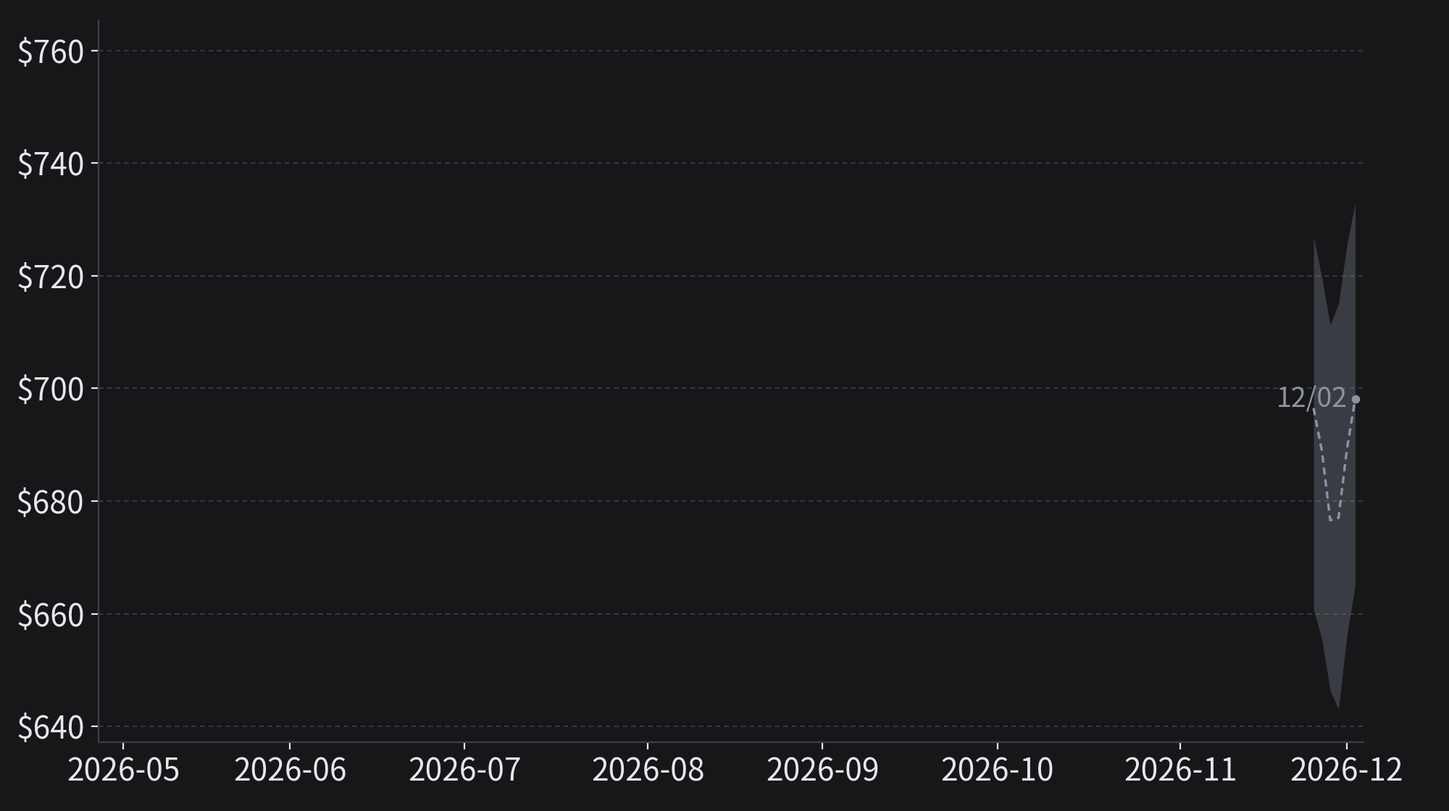
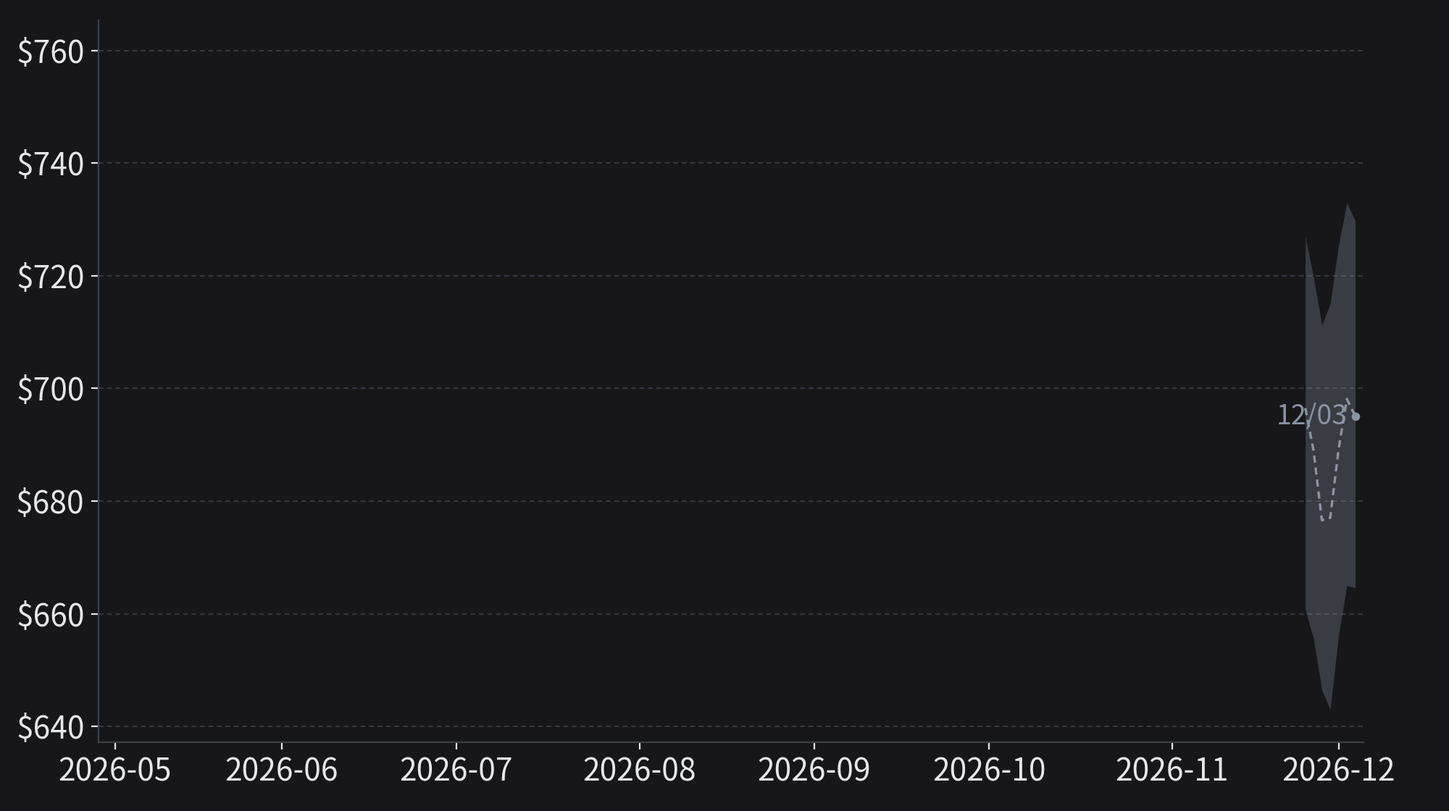
2026-10-30 nasdaq 리포트 공개본

diff --git a/r/20261030-nasdaq/report.html b/r/20261030-nasdaq/report.html
@@ -1,0 +1,158 @@
+<h2 id="1개월-지수-방향-예측">1개월 지수 방향 예측</h2>
+<p><img src="r/20261030-nasdaq/chart-nasdaq.png?v=f65d9cd6ec" /></p>
+<p><img src="r/20261030-nasdaq/predict-nasdaq.png?v=d363d694af" /></p>
+<h3 id="현재-상태-알파벳에-이어-아마존도-현금흐름이-나빠져-기술주가-다시-하락했다"><mark>현재 상태</mark> 알파벳에 이어 아마존도 현금흐름이 나빠져 기술주가 다시 하락했다</h3>
+<p>10월 29일 나스닥 종합지수는 1.4% 하락했다. 알파벳 주가가 하루 사이 12.6% 내려 상장 뒤 가장 크게 하락했기 때문이다. CNBC에 따르면 알파벳의 3분기 잉여현금흐름은 -90.7억 달러로 애널리스트 예상보다 크게 나빴다.</p>
+<p>장 마감 뒤에는 아마존 주가도 시간외 거래에서 6% 넘게 하락했다. 아마존의 클라우드 매출은 5년 만에 가장 빠르게 늘었지만, 최근 12개월 잉여현금흐름은 424억 달러 유출로 돌아섰다. AI 수요는 늘고 있다. 투자자는 AI 투자에서 현금을 언제 회수하는지 따지기 시작했다.</p>
+<p>10년물 국채 수익률이 내렸는데도 기술주는 하락했다. 투자자가 현금 회수를 걱정해 주식을 팔았기 때문이다. VIX는 평소 범위에 있어 지수 전체에 대한 공포는 크지 않다. 반면 투자자는 대형 기술주의 추가 하락에 대비해 풋옵션을 많이 사 두었다.</p>
+<h3 id="주요-분기와-예측-앞으로-한-달은-빅테크-매도의-지속-기간과-선거-뒤-이란-재공격-여부가-중요하다"><mark>주요 분기와 예측</mark> 앞으로 한 달은 빅테크 매도의 지속 기간과 선거 뒤 이란 재공격 여부가 중요하다</h3>
+<p>앞으로 한 달 동안 세 가지 이슈가 중요하다. 첫째, 투자자는 며칠 더 대형 기술주를 판 뒤 매도를 멈출 가능성이 높다. 둘째, 11월 3일 중간선거가 끝나면 미국과 이스라엘이 이란을 다시 공격할 가능성이 커진다. 셋째, AI 데이터센터를 짓는 기업에서 한 달 안에 신용 사건(신용등급이 투기등급으로 내려가거나 부도 위험에 대한 보험료가 급등하는 일)이 일어날 가능성은 낮다.</p>
+<h3 id="지수-영향-횡보-가능성이-가장-높고-하락-가능성이-두-번째로-높다"><mark>지수 영향</mark> 횡보 가능성이 가장 높고, 하락 가능성이 두 번째로 높다</h3>
+<p>앞으로 한 달 동안 지수가 횡보할 가능성이 가장 높고, 하락할 가능성이 두 번째로 높다. 하락 가능성을 키우는 사안은 두 가지다. 선거 뒤 미국이 이란 공격을 재개하면 하락 가능성이 커진다. AI 데이터센터를 짓는 기업에서 신용 사건이 일어나도 하락 가능성이 커진다. 반대로 미국이 공격을 미루면 횡보와 상승의 가능성이 커진다. 투자자가 빅테크 매도를 빨리 멈춰도 횡보와 상승의 가능성이 커진다.</p>
+<p>어제보다 큰 하락의 가능성은 줄었고, 상승과 횡보의 가능성은 커졌다. 어제 가장 큰 하락 요인으로 본 아마존 실적이 나왔고, 투자자가 시간외 거래에서 그 충격을 이미 주가에 반영했다.</p>
+<p>코어위브는 엔비디아 칩으로 AI 연산 능력을 빌려주는 기업이다. 코어위브의 부도 위험에 대한 보험료가 내렸다. 오라클도 앞으로 새로 빌릴 돈의 상한을 밝혔다. 그래서 AI 데이터센터를 짓는 기업에서 신용 사건이 일어날 가능성도 낮아졌다.</p>
+<h2 id="주요-이슈-해설">주요 이슈 해설</h2>
+<h3 id="1-미국의-선거-뒤-이란-재공격-양방향-중요도-높음">1. 미국의 선거 뒤 이란 재공격 <code>양방향</code> <code>중요도 높음</code></h3>
+<h4 id="현재-상태-미국은-선거-전-공격을-배제했지만-선거-뒤-작전을-준비한다는-보도가-이어진다"><mark>현재 상태</mark> 미국은 선거 전 공격을 배제했지만 선거 뒤 작전을 준비한다는 보도가 이어진다</h4>
+<p>백악관은 10월 27일 로이터에 11월 3일 중간선거 전에는 이란을 공격하지 않겠다고 밝혔다. 그러나 WSJ에 따르면 미국은 걸프 국가들에 선거 뒤 짧고 강한 군사작전에 대비하라고 알렸다. 로이터에 따르면 10월 29일 중동을 담당하는 미군 지휘관이 백악관에서 트럼프 대통령에게 이란에 쓸 군사 옵션을 설명했다.</p>
+<p>같은 날 밴스 부통령은 협상 재개를 시도했지만, 이란의 고위 관리는 카타르의 새 중재안을 받아들일 수 없다고 했다.</p>
+<p>예측시장의 투자자는 선거 뒤 공격 가능성을 이미 상당 부분 예상하고 거래한다. 브렌트유가 배럴당 110달러를 넘는 것도 선거 뒤 공격 위험 때문이다. 다만 유가가 높아도 5년 기대 인플레이션은 평상시 범위에 있다. 그래서 유가 때문에 금리 인상 기대가 커지지는 않았다.</p>
+<h4 id="주요-분기와-예측-선거-뒤-한-달-안에-공격이-재개될-가능성은-절반보다-낮다"><mark>주요 분기와 예측</mark> 선거 뒤 한 달 안에 공격이 재개될 가능성은 절반보다 낮다</h4>
+<p>선거 전에 공격이 재개될 가능성은 낮다. 선거 뒤 11월 말까지 공격이 재개될 가능성은 절반보다 낮지만, 예측시장의 예상보다는 조금 높다. 공격이 재개돼도 유가만 오르면 주가 하락은 며칠 안에 끝날 가능성이 높다. 하이일드 채권 스프레드는 신용등급이 낮은 회사채의 금리와 국채 금리의 차이다. 금리와 이 스프레드가 함께 오르면 하락 기간이 길어진다. 이란이 호르무즈 해협을 다시 열면 유가와 금리가 함께 내린다.</p>
+<h4 id="지수-영향-공격이-미뤄지면-지수가-조금씩-오르고-공격이-재개되면-지수가-하락한다"><mark>지수 영향</mark> 공격이 미뤄지면 지수가 조금씩 오르고, 공격이 재개되면 지수가 하락한다</h4>
+<p>공격 없이 날이 지나면 투자자는 위험에 대비한 매도를 줄인다. 그래서 지수가 조금씩 오른다. 공격이 재개되면 유가가 오른다. 투자자는 물가와 금리의 상승을 예상해 기술주를 판다.</p>
+<p>올해 3월 이란이 호르무즈 해협 봉쇄를 선언한 뒤 브렌트유는 100달러를 넘었다. QQQ는 3월 26일 하루 2.4% 하락했고, 3월 31일 종전 기대가 나오자 3.4% 올랐다.</p>
+<h3 id="2-빅테크-ai-투자의-현금-회수-양방향-중요도-높음">2. 빅테크 AI 투자의 현금 회수 <code>양방향</code> <code>중요도 높음</code></h3>
+<h4 id="현재-상태-ai-수요는-확인됐지만-투자자는-현금흐름이-나빠진-기업을-팔았다"><mark>현재 상태</mark> AI 수요는 확인됐지만 투자자는 현금흐름이 나빠진 기업을 팔았다</h4>
+<p>알파벳의 클라우드 매출은 103% 늘었고, 아마존의 클라우드(AWS) 매출은 39.3% 늘었다. 하지만 두 기업은 현금 회수가 늦어졌다. 알파벳의 3분기 잉여현금흐름은 적자였고, 아마존의 최근 12개월 잉여현금흐름은 424억 달러 유출로 돌아섰다. CNBC에 따르면 아마존의 3분기 자본지출은 773억 달러로 FactSet 추정 587억 달러보다 많았다.</p>
+<p>투자자는 현금 회수 능력을 보고 종목을 골라 매매했다. 10월 29일 알파벳 주가는 12.6% 하락했고 메타 주가는 1.96% 올랐다. 애널리스트가 나스닥100 상위 종목의 내년 주당순이익 추정치를 한 달 사이 5% 넘게 올렸는데도 주가는 따라 오르지 않았다.</p>
+<h4 id="주요-분기와-예측-투자자는-며칠-더-대형-기술주를-판-뒤-매도를-멈출-가능성이-높다"><mark>주요 분기와 예측</mark> 투자자는 며칠 더 대형 기술주를 판 뒤 매도를 멈출 가능성이 높다</h4>
+<p>투자자는 며칠 더 대형 기술주를 판 뒤 매도를 멈출 가능성이 높다. 투자자가 기술주를 파는 동안 하이일드 채권 스프레드까지 오르면 매도 기간이 길어진다. 11월 17일 엔비디아가 내년 수요를 숫자로 밝히면 현금 회수에 대한 불안이 줄어든다. 엔비디아가 고객사의 자금 사정을 걱정하면 매도 규모가 다시 커진다.</p>
+<h4 id="지수-영향-첫-주에는-지수가-더-하락하고-그-뒤에는-일부를-회복할-가능성이-높다"><mark>지수 영향</mark> 첫 주에는 지수가 더 하락하고, 그 뒤에는 일부를 회복할 가능성이 높다</h4>
+<p>나스닥100에서 알파벳과 아마존의 비중이 크다. 그래서 두 종목 주가가 내리면 지수도 바로 하락한다. 투자자가 매도를 멈추면 이익 추정치가 오른 종목을 다시 사들인다. 그러면 지수가 일부 회복한다.</p>
+<p>2022년 10월 말에는 실적 발표 뒤 이틀 사이 메타와 아마존 주가가 크게 하락했다. QQQ는 나흘째 가장 낮은 가격까지 내렸고, 열흘째에는 하락 전 가격보다 높아졌다.</p>
+<h3 id="3-ai-인프라-기업의-신용-위험-하락-요인-중요도-높음">3. AI 인프라 기업의 신용 위험 <code>하락 요인</code> <code>중요도 높음</code></h3>
+<h4 id="현재-상태-ai-인프라-기업의-부도-위험에-대한-보험료는-내렸지만-대형-플랫폼의-조달은-늘었다"><mark>현재 상태</mark> AI 인프라 기업의 부도 위험에 대한 보험료는 내렸지만 대형 플랫폼의 조달은 늘었다</h4>
+<p>CryptoBriefing에 따르면 코어위브의 부도 위험에 대한 보험료는 10월 27일 1주일 넘게 가장 낮은 수준으로 내렸다. 오라클은 10월 28일 투자자 행사에서 2030 회계연도까지 차환을 빼고 새로 조달할 자금을 200억 달러로 제한하겠다고 밝혔고, 오라클 주가는 약 11% 올랐다. 하이일드 채권 스프레드도 3월 고점보다 낮다.</p>
+<p>반면 대형 플랫폼 기업은 조달을 늘렸다. 메타는 10월 29일 의무전환 우선주(정해진 날 보통주로 바뀌는 우선주)와 보통주 선도 매도(가격을 지금 정하고 주식은 나중에 넘기는 매도)로 약 370억 달러 규모의 자기자본을 조달하는 계약을 맺었다. 마이크로소프트도 같은 날 회사채를 발행하는 절차를 시작했다.</p>
+<h4 id="주요-분기와-예측-한-달-안에-신용-사건이-일어나도-신용등급이-낮은-ai-기업에서-그칠-가능성이-높다"><mark>주요 분기와 예측</mark> 한 달 안에 신용 사건이 일어나도 신용등급이 낮은 AI 기업에서 그칠 가능성이 높다</h4>
+<p>11월 말까지 AI 인프라 기업에 신용 사건이 일어날 가능성은 낮다. 신용 사건이 일어나도 신용등급이 낮은 AI 기업에서 그칠 가능성이 높다. 코어위브는 11월 중순 실적을 발표한다. 코어위브가 그 실적에서 큰 규모의 추가 자금을 조달하겠다는 계획을 밝힐 수 있다. 그 뒤 하이일드 채권 스프레드가 3월 고점을 넘으면 회사채 시장 전체에서 부채에 대한 불안이 커진다.</p>
+<h4 id="지수-영향-회사채-시장-전체에서-하이일드-채권-스프레드가-오르면-지수가-크게-하락한다"><mark>지수 영향</mark> 회사채 시장 전체에서 하이일드 채권 스프레드가 오르면 지수가 크게 하락한다</h4>
+<p>신용 사건이 일부 AI 기업에서 그치면 반도체와 클라우드 주가만 며칠 하락한다. 하이일드 채권 스프레드까지 오르면 투자자가 빌린 돈으로 산 주식을 줄이므로 지수가 크게 하락한다.</p>
+<p>2023년 4월 25일 퍼스트리퍼블릭은행 사태 때 QQQ는 하루 1.9% 하락했다. 나흘 뒤 JP모건이 인수를 발표했고 빅테크도 좋은 실적을 냈다. 그러자 QQQ는 하락을 멈췄다.</p>
+<h3 id="4-추세추종-펀드의-기계적-매도-하락-요인-중요도-높음">4. 추세추종 펀드의 기계적 매도 <code>하락 요인</code> <code>중요도 높음</code></h3>
+<h4 id="현재-상태-장후-하락으로-지수가-추세추종-펀드의-매도-기준선-아래로-내려갔다"><mark>현재 상태</mark> 장후 하락으로 지수가 추세추종 펀드의 매도 기준선 아래로 내려갔다</h4>
+<p>CTA는 가격 추세를 따라 주가지수 선물을 매매하는 펀드다. BofA는 10월 26일 CTA의 매도 기준선을 추정했다. 나스닥100 선물이 0.2%만 더 내려도 CTA가 매도를 시작한다고 봤다. QQQ는 10월 29일 장후 1.5% 넘게 하락해 그 기준선보다 낮아졌다. 골드만삭스 자료에 따르면 CTA는 이미 사흘 동안 나스닥100 선물 약 30억 달러를 팔았다.</p>
+<p>투자자는 대형 기술주를 특히 걱정한다. VIX는 평소 범위에 있지만, QQQ의 하락에 대비하는 풋옵션 가격은 1년 가운데 가장 비싸다. Fear &amp; Greed Index도 공포 구간이다.</p>
+<h4 id="주요-분기와-예측-지수가-1-넘게-더-하락하면-기계적-매도가-커진다"><mark>주요 분기와 예측</mark> 지수가 1% 넘게 더 하락하면 기계적 매도가 커진다</h4>
+<p>지수가 10월 29일 장후 가격보다 1% 넘게 더 내리면 CTA가 주식을 더 팔 가능성이 높다. VIX가 사흘 넘게 20을 넘으면 매도 규모가 커진다. 그러나 지수가 크게 하락한 뒤에는 투자자가 풋옵션을 정리하고 주식을 다시 사들인다. 그러면 하락 폭이 줄어든다.</p>
+<h4 id="지수-영향-기계적-매도는-첫-2주의-하락-폭을-키운다"><mark>지수 영향</mark> 기계적 매도는 첫 2주의 하락 폭을 키운다</h4>
+<p>CTA는 사안이 아니라 가격 추세를 보고 매매한다. 그래서 다른 이슈 때문에 지수가 내리면 CTA도 주식을 팔아 하락 폭이 커진다. 지수가 8% 넘게 내리면 CTA의 남은 매도 물량이 줄어든다. 그러면 지수가 반등할 가능성이 커진다.</p>
+<p>2024년 8월 5일 엔화를 빌려 위험자산을 산 투자자가 포지션을 정리하자 QQQ는 하루 3.0% 하락했고, 사흘 뒤 3.1% 반등했다.</p>
+<h3 id="검토했지만-비중을-낮춘-이슈">검토했지만 비중을 낮춘 이슈</h3>
+<ul>
+<li><strong>애플 회계 4분기 실적</strong>: 12월분기 가이던스가 컨센서스보다 낮을 수 있지만, 증권사들이 프리뷰에서 이미 낮은 가이던스를 예상했다. 시장이 상당 부분 예상한 결과다.</li>
+<li><strong>미국 중간선거</strong>: 예측시장은 민주당의 양원 장악을 가장 높게 봤다. 발표 뒤 주가가 크게 움직이지 않을 가능성이 높다.</li>
+<li><strong>10월 고용보고서</strong>: 선물시장이 12월 금리 인상을 이미 대부분 예상하고 있어 고용 결과가 금리 기대를 크게 바꾸기 어렵다.</li>
+<li><strong>인텔 4분기 가이던스 미달</strong>: PC 수요가 둔화했고 공장 사고가 났기 때문이라 AI 투자의 현금 회수와 다른 문제다. 나스닥100에서 인텔의 비중도 작다.</li>
+<li><strong>서비스나우·포티넷 주가 급락</strong>: 소프트웨어 기업 두 곳의 실적 문제다. 지수 전체의 이익이나 자금 흐름으로 이어지는 경로가 약하다.</li>
+<li><strong>메타의 대규모 자기자본 조달</strong>: 보통주 선도 매도는 내년 11월까지 결제를 미룰 수 있다. 이번 달 시장에 나오는 주식은 많지 않다.</li>
+</ul>
+<h2 id="다가오는-이벤트">다가오는 이벤트</h2>
+<h3 id="1028수-장중-fomc-중요도-보통" data-day="2026-10-28" data-level="mid"><span class="when">10/29(목) 03:00 KST</span>FOMC <code>중요도 보통</code></h3>
+<table class="events judged">
+<thead><tr><th>분기</th><th>확률</th><th>전개 예상</th></tr></thead>
+<tbody>
+<tr><td class="branch">동결·추가 인상 거리두기</td><td class="chance">19%</td><td>연준이 추가 인상에 거리를 두면 금리 인상에 대한 부담이 줄어 주가가 오른다</td></tr>
+<tr class="hit"><td class="branch">동결·12월 인상 신호 유지</td><td class="chance">75%</td><td>시장이 이미 예상한 결과라 발표 뒤 주가가 크게 움직이지 않는다 <span class="outcome">→ 연준이 10/28 기준금리를 3.75~4.00%로 동결했고 쿡·해맥 두 위원이 인상을 주장하며 반대했다. 워시 의장은 12월 인상을 확정하지도 부인하지도 않았고, 12월 인상 확률은 하루 전 78%에서 85% 안팎으로 올랐다.</span></td></tr>
+<tr><td class="branch">인상 또는 연속 인상 경로 확인</td><td class="chance">6%</td><td>할인율이 오른다는 우려 때문에 성장주가 하락한다</td></tr>
+</tbody>
+</table>
+<h3 id="1028수-장후-마이크로소프트-회계-1분기-실적-중요도-보통" data-day="2026-10-28" data-level="mid"><span class="when">장후</span>마이크로소프트 회계 1분기 실적 <code>중요도 보통</code></h3>
+<table class="events judged">
+<thead><tr><th>분기</th><th>확률</th><th>전개 예상</th></tr></thead>
+<tbody>
+<tr class="hit"><td class="branch">Azure 47% 이상·EPS 위스퍼 상회</td><td class="chance">30%</td><td>투자자가 클라우드 수요를 설비투자의 근거로 해석해 주식을 사들이면서 주가가 오른다 <span class="outcome">→ 마이크로소프트의 Azure 매출이 48% 늘었고, 다음 분기 Azure 성장률 지침 49~50%는 시장 예상 45.1%를 넘었다. 조정 EPS 4.89달러는 시장 예상보다 높았으나 위스퍼 4.93달러에는 조금 못 미쳤고, 시간외 주가는 3~4% 올랐다.</span></td></tr>
+<tr><td class="branch">Azure 45~46% 기대 부합</td><td class="chance">47%</td><td>시장 예상과 같아 주가가 크게 움직이지 않는다</td></tr>
+<tr><td class="branch">Azure 44% 이하 또는 자본지출 급증·현금흐름 악화</td><td class="chance">23%</td><td>현금 회수에 대한 의심이 커져 기술주가 하락한다</td></tr>
+</tbody>
+</table>
+<h3 id="1028수-장후-알파벳-3분기-실적-중요도-높음" data-day="2026-10-28" data-level="high"><span class="when">장후</span>알파벳 3분기 실적 <code>중요도 높음</code></h3>
+<table class="events judged">
+<thead><tr><th>분기</th><th>확률</th><th>전개 예상</th></tr></thead>
+<tbody>
+<tr><td class="branch">클라우드 컨센서스(92%) 상회에 자본지출 범위 유지</td><td class="chance">25%</td><td>설비투자 부담에 대한 우려가 줄어 주가가 오른다</td></tr>
+<tr><td class="branch">자본지출 상향·잉여현금흐름 적자로 매도</td><td class="chance">47%</td><td>메타처럼 잉여현금흐름 적자 때문에 주가가 하락하지만 시장이 이미 일부 예상한 결과라 하락 폭은 작다</td></tr>
+<tr class="hit"><td class="branch">클라우드 기대 미달 또는 2027년 자본지출 급증 예고</td><td class="chance">28%</td><td>현금 회수에 대한 의심 때문에 반도체주까지 함께 하락한다 <span class="outcome">→ 알파벳의 클라우드 매출은 103% 늘어 시장 예상을 넘었지만 검색 매출 성장은 12%로 둔화했다. 잉여현금흐름이 -90.7억 달러였고 경영진은 2027년 자본지출의 큰 폭 증가를 예고했다. 시간외에서 알파벳 주가는 약 10% 내렸고 QQQ도 1.18% 내렸다.</span></td></tr>
+</tbody>
+</table>
+<h3 id="1029목-장전-9월-pce-물가-중요도-보통" data-day="2026-10-29" data-level="mid"><span class="when">10/29(목) 21:30 KST</span>9월 PCE 물가 <code>중요도 보통</code></h3>
+<table class="events judged">
+<thead><tr><th>분기</th><th>확률</th><th>전개 예상</th></tr></thead>
+<tbody>
+<tr><td class="branch">근원 0.25% 이하</td><td class="chance">7%</td><td>12월 인상 뒤 추가 인상 기대가 줄어 주가가 오른다</td></tr>
+<tr class="hit"><td class="branch">근원 0.26~0.34%</td><td class="chance">65%</td><td>시장이 예상한 결과라 주가가 크게 움직이지 않는다 <span class="outcome">→ 9월 PCE 물가에서 식품과 에너지를 뺀 근원 지수는 전월보다 0.32% 올라 시장 예상 0.30%를 조금 웃돌았고, 전년 대비로는 3.1% 올랐다. 발표 뒤 12월 인상 확률은 장 마감 무렵 74.9%로 내려왔다.</span></td></tr>
+<tr><td class="branch">근원 0.35% 이상</td><td class="chance">28%</td><td>다음 해 인상 기대가 커져 주가가 조금 하락한다</td></tr>
+</tbody>
+</table>
+<h3 id="1029목-장후-아마존-3분기-실적-중요도-높음" data-day="2026-10-29" data-level="high"><span class="when">장후</span>아마존 3분기 실적 <code>중요도 높음</code></h3>
+<table class="events judged">
+<thead><tr><th>분기</th><th>확률</th><th>전개 예상</th></tr></thead>
+<tbody>
+<tr><td class="branch">매출 2,030억 달러 이상·AWS 42% 이상</td><td class="chance">25%</td><td>클라우드 수요가 현금 부담을 상쇄한다는 해석 때문에 기술주가 오른다</td></tr>
+<tr><td class="branch">기대 부합</td><td class="chance">47%</td><td>주가가 크게 움직이지 않고, 알파벳 실적 때문에 투자자가 주식을 조금 더 판다</td></tr>
+<tr class="hit"><td class="branch">가이던스 상단 미달 또는 AWS 37% 미만</td><td class="chance">28%</td><td>현금 회수에 대한 의심이 커져 기술주가 함께 하락한다 <span class="outcome">→ 아마존의 3분기 매출은 2,019억 달러로 가이던스 상단 2,020억 달러에 못 미쳤고, AWS 매출은 39.3% 늘었다. 최근 12개월 잉여현금흐름이 424억 달러 유출로 돌아서자 시간외 주가는 7% 안팎 내렸고, QQQ도 시간외에서 1.54% 내렸다.</span></td></tr>
+</tbody>
+</table>
+<h3 id="1029목-장후-일본은행-금융정책결정회합-중요도-낮음" data-day="2026-10-29" data-level="low"><span class="when">10/30(금) 12:00 KST</span>일본은행 금융정책결정회합 <code>중요도 낮음</code></h3>
+<table class="events judged">
+<thead><tr><th>분기</th><th>확률</th><th>전개 예상</th></tr></thead>
+<tbody>
+<tr><td class="branch">동결</td><td class="chance">96%</td><td>시장이 예상한 결과라 주가가 크게 움직이지 않는다</td></tr>
+<tr><td class="branch">인상과 엔화 급등</td><td class="chance">4%</td><td>엔화로 돈을 빌려 투자한 자금이 청산되면서 기술주가 크게 하락한다</td></tr>
+</tbody>
+</table>
+<p><img src="r/20261030-nasdaq/tree-nasdaq.png?v=fbeb55d15f" /></p>
+<h3 id="1029목-장후-일본은행-금융정책결정회합-중요도-낮음-1" data-day="2026-10-29" data-level="low"><span class="when">10/30(금) 12:00 KST</span>일본은행 금융정책결정회합 <code>중요도 낮음</code></h3>
+<table class="events judged">
+<thead><tr><th>분기</th><th>확률</th><th>전개 예상</th></tr></thead>
+<tbody>
+<tr><td class="branch">동결</td><td class="chance">97%</td><td>시장이 예상한 결과라 주가가 크게 움직이지 않는다</td></tr>
+<tr><td class="branch">인상과 엔화 급등</td><td class="chance">3%</td><td>엔화를 빌려 위험자산을 산 투자자가 포지션을 정리하면서 기술주가 하락한다</td></tr>
+</tbody>
+</table>
+<h3 id="1102월-장후-애플-회계-4분기-실적-중요도-보통" data-day="2026-11-02" data-level="mid"><span class="when">11/03(화) 06:30 KST</span>애플 회계 4분기 실적 <code>중요도 보통</code></h3>
+<table class="events">
+<thead><tr><th>분기</th><th>확률</th><th>전개 예상</th></tr></thead>
+<tbody>
+<tr><td class="branch">12월분기 가이던스 실망</td><td class="chance">47%<br><small class="delta flat">–</small></td><td>연말 아이폰 수요가 약하다는 걱정 때문에 애플 주가가 하락하고 지수도 함께 하락한다</td></tr>
+<tr><td class="branch">가이던스 부합·상회</td><td class="chance">53%<br><small class="delta flat">–</small></td><td>낮아진 기대를 넘으면 애플 주가가 오르고 기술주 매도가 줄어든다</td></tr>
+</tbody>
+</table>
+<h3 id="1103화-장후-미국-중간선거-중요도-보통" data-day="2026-11-03" data-level="mid"><span class="when">11/04(수) 10:00 KST</span>미국 중간선거 <code>중요도 보통</code></h3>
+<table class="events">
+<thead><tr><th>분기</th><th>확률</th><th>전개 예상</th></tr></thead>
+<tbody>
+<tr><td class="branch">민주당 양원 장악</td><td class="chance">64%<br><small class="delta up">▲2%p</small></td><td>세금과 규제가 늘어날 것이라는 걱정 때문에 기술주가 소폭 하락한다</td></tr>
+<tr><td class="branch">민주 하원·공화 상원 분할</td><td class="chance">29%<br><small class="delta down">▼2%p</small></td><td>정책이 크게 바뀌지 않을 것이라는 기대 때문에 기술주가 오른다</td></tr>
+<tr><td class="branch">공화당 양원 유지</td><td class="chance">7%<br><small class="delta flat">–</small></td><td>국채 발행이 늘 것이라는 예상 때문에 장기금리가 올라 주가가 크게 오르기 어렵다</td></tr>
+</tbody>
+</table>
+<h3 id="1104수-장전-재무부-4분기-자금조달-계획-중요도-낮음" data-day="2026-11-04" data-level="low"><span class="when">11/04(수) 22:30 KST</span>재무부 4분기 자금조달 계획 <code>중요도 낮음</code></h3>
+<table class="events">
+<thead><tr><th>분기</th><th>확률</th><th>전개 예상</th></tr></thead>
+<tbody>
+<tr><td class="branch">20·30년물 발행 축소</td><td class="chance">30%<br><small class="delta flat">–</small></td><td>장기 국채 공급이 줄어 장기금리가 내리고 주가가 소폭 오른다</td></tr>
+<tr><td class="branch">쿠폰 규모 유지(장기 바이백 확대 포함)</td><td class="chance">62%<br><small class="delta flat">–</small></td><td>시장이 예상한 결과라 주가가 크게 움직이지 않는다</td></tr>
+<tr><td class="branch">유지 문구 삭제·장기물 증액 신호</td><td class="chance">8%<br><small class="delta flat">–</small></td><td>장기 국채 공급이 늘 것이라는 예상 때문에 장기금리가 오르고 주가가 하락한다</td></tr>
+</tbody>
+</table>
+<h3 id="1106금-장전-10월-고용보고서-중요도-보통" data-day="2026-11-06" data-level="mid"><span class="when">11/06(금) 22:30 KST</span>10월 고용보고서 <code>중요도 보통</code></h3>
+<table class="events">
+<thead><tr><th>분기</th><th>확률</th><th>전개 예상</th></tr></thead>
+<tbody>
+<tr><td class="branch">실업률 4.1% 이하·고용 견조</td><td class="chance">45%<br><small class="delta up">▲5%p</small></td><td>연준이 내년에도 금리를 더 올릴 것이라는 예상이 커져 주가가 소폭 하락한다</td></tr>
+<tr><td class="branch">실업률 4.2~4.3% 완만한 둔화</td><td class="chance">47%<br><small class="delta down">▼3%p</small></td><td>시장이 예상한 결과라 주가가 크게 움직이지 않는다</td></tr>
+<tr><td class="branch">실업률 4.4% 이상 급랭</td><td class="chance">8%<br><small class="delta down">▼2%p</small></td><td>금리 인상 기대는 줄지만 경기 둔화에 대한 걱정 때문에 주가가 하락한다</td></tr>
+</tbody>
+</table>
